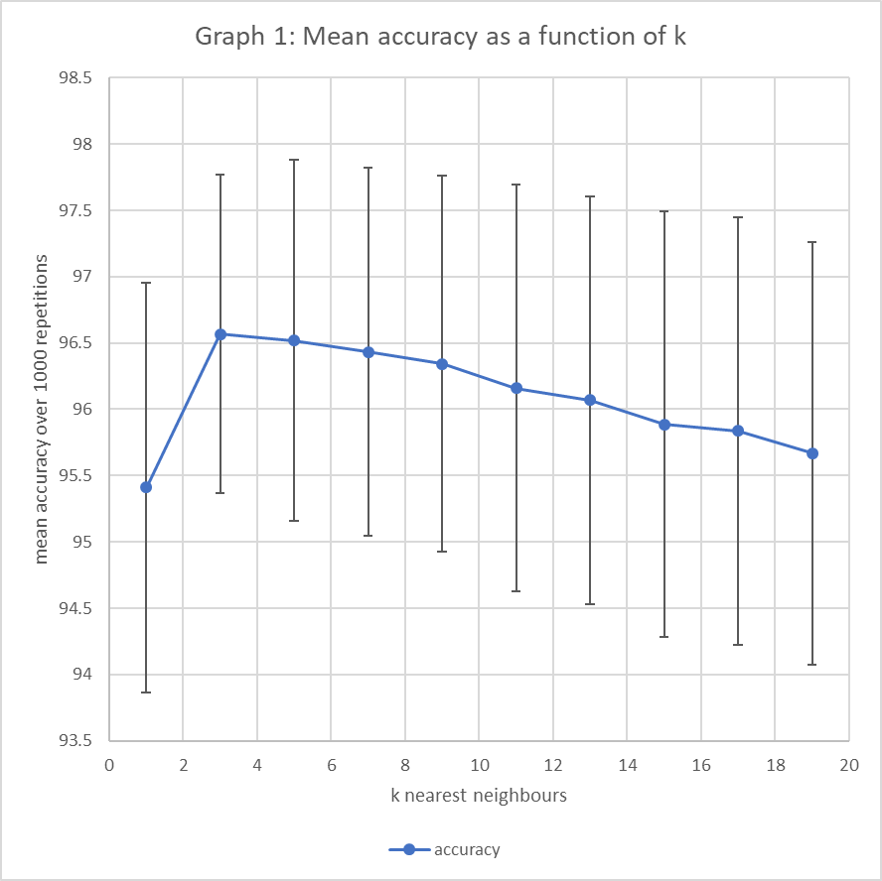
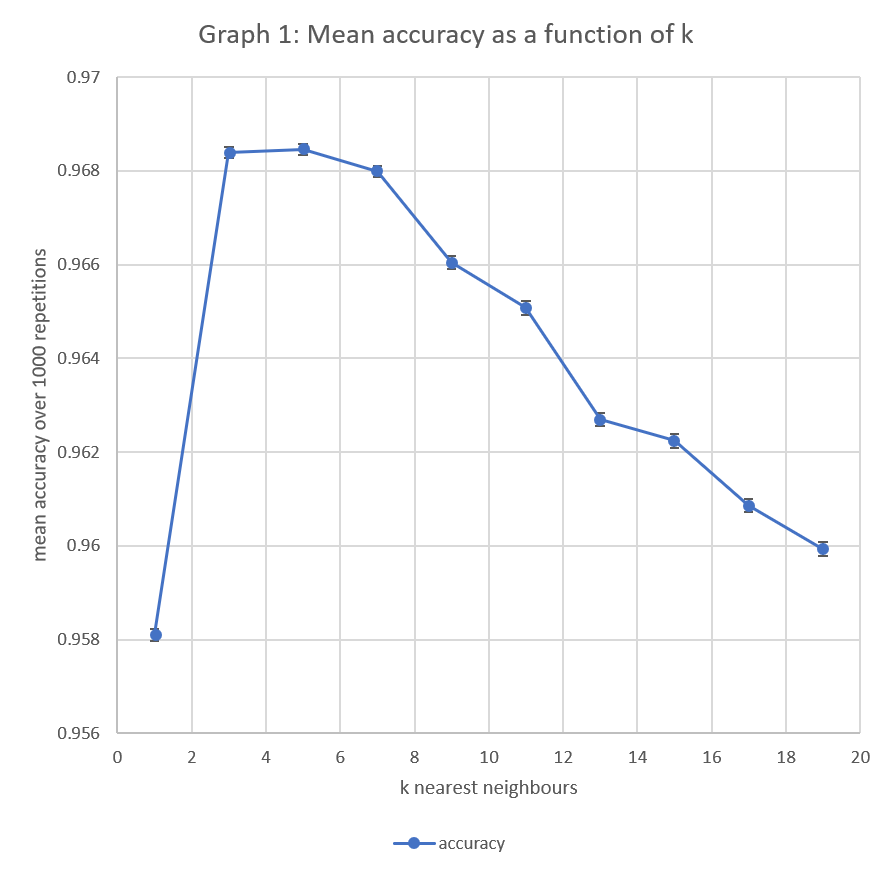
change int to double so that division works properly

diff --git a/kNNMain.java b/kNNMain.java
@@ -102,26 +102,26 @@ for(int k = 1; k<20; k+=2){
 		
 		}
 		
-	int correct = benignBenign + malignantMalignant;
-	int actuallyMalignant = malignantMalignant + benignMalignant;
-	int predictedMalignant = malignantMalignant + malignantBenign;
+	double correct = benignBenign + malignantMalignant;
+	double actuallyMalignant = malignantMalignant + benignMalignant;
+	double predictedMalignant = malignantMalignant + malignantBenign;
 		
 		
 		
-		accuracy[r] = (correct *100/testData.size());
-		precision[r] = (malignantMalignant*100/predictedMalignant);
-		recall[r] =  (malignantMalignant*100/actuallyMalignant);
+		accuracy[r] = (correct/testData.size());
+		precision[r] = (malignantMalignant/predictedMalignant);
+		recall[r] =  (malignantMalignant/actuallyMalignant);
 		
 		
 //		System.out.println(correct + " out of " + i);
   
 	} // 1000 repetitions
 	
-	
+/**	
 	for(int i=0; i<accuracy.length; i++){
 		System.out.print(accuracy[i] + ", ");
 	}
-		
+*/		
 	System.out.print(k + ", " + mean(accuracy) + ", " + standardDeviation(accuracy));
 	System.out.print(", " + mean(precision) + ", " + standardDeviation(precision));
 	System.out.println(", " + mean(recall) + ", " + standardDeviation(recall));

diff --git a/ErrorAnalysis.md b/ErrorAnalysis.md
@@ -14,7 +14,7 @@ the predictions and results will change too.
 Line 200 of `DataSet.java` calls a method to figure out the labels of the most similar data points to the one currently being tested. 
 The most simple baseline to compare the model to would be using a k value of 1, so that it only looks for the most simmilar point, 
 wihtout analyzing the other ones nearby to come up with a potentially better guess.
-As shown in graph 1, this gives an average of `95.5% ± 1.6`.
+As shown in graph 1, this gives an average of `95.81% ± 0.01`.
 Graph 1 also shows that the accurasy of the prediction is maximized when `k = 3`.
 
 
@@ -29,17 +29,17 @@ In the case of the breast cancer data set, there are two possible mistakes that 
 
 
 Precision compares the number of correct malignant predictions to the total number of malignant predictions.
-The baseline precision value when `k = 1` is `94.3% ± 5.1`. 
+The baseline precision value when `k = 1` is `94.85% ± 0.05`. 
 It improves as k increases, as seen in graph 2.
 
 Recall compares the number of correct malignant predictions to the total number of malignant cases.
-The baseline recall value when `k = 1` is `92.5% ± 9.3`.
+The baseline recall value when `k = 1` is `93.06% ± 0.10`.
 As seen in graph 3, it has a maximal value when `k = 3` and decreases as k increases past 3.
 
 ```java
-	accuracy[r] = (correct *100/testData.size());
-	precision[r] = (malignantMalignant*100/predictedMalignant);
-	recall[r] =  (malignantMalignant*100/actuallyMalignant);
+	accuracy[r] = (correct/testData.size());
+	precision[r] = (malignantMalignant/predictedMalignant);
+	recall[r] =  (malignantMalignant/actuallyMalignant);
 ```
 
 
@@ -59,3 +59,20 @@ Based on graphs 1 and 3, the classifier works optimally when `k = 3`.
 	System.out.println(", " + mean(recall) + ", " + standardDeviation(recall));
 ```
 <img src="G1_accuracy.png" width = "33%"><img src="G2_precision.png" width = "33%"><img src="G3_recall.png" width = "33%">
+
+The following is the table of values represented in the graphs:
+
+|k|Mean Accuracy|st.dev. on Accuracy|Mean Precision|st.dev. on Precision|Mean Recall|st. dev. on Recall|
+|---|---|---|---|---|---|---|
+|1|95.811%|0.013%|94.847%|0.051%|93.060%|0.098%|
+|3|96.839%|0.011%|95.355%|0.050%|95.628%|0.068%|
+|5|96.846%|0.012%|95.534%|0.050%|95.403%|0.073%|
+|7|96.799%|0.012%|95.697%|0.046%|95.097%|0.067%|
+|9|96.604%|0.014%|95.895%|0.046%|94.303%|0.077%|
+|11|96.507%|0.014%|96.047%|0.044%|93.817%|0.077%|
+|13|96.269%|0.014%|96.207%|0.043%|92.961%|0.084%|
+|15|96.224%|0.015%|96.353%|0.039%|92.664%|0.087%|
+|17|96.086%|0.014%|96.450%|0.037%|92.195%|0.084%|
+|19|95.993%|0.015%|96.551%|0.036%|91.766%|0.092%|
+
+
